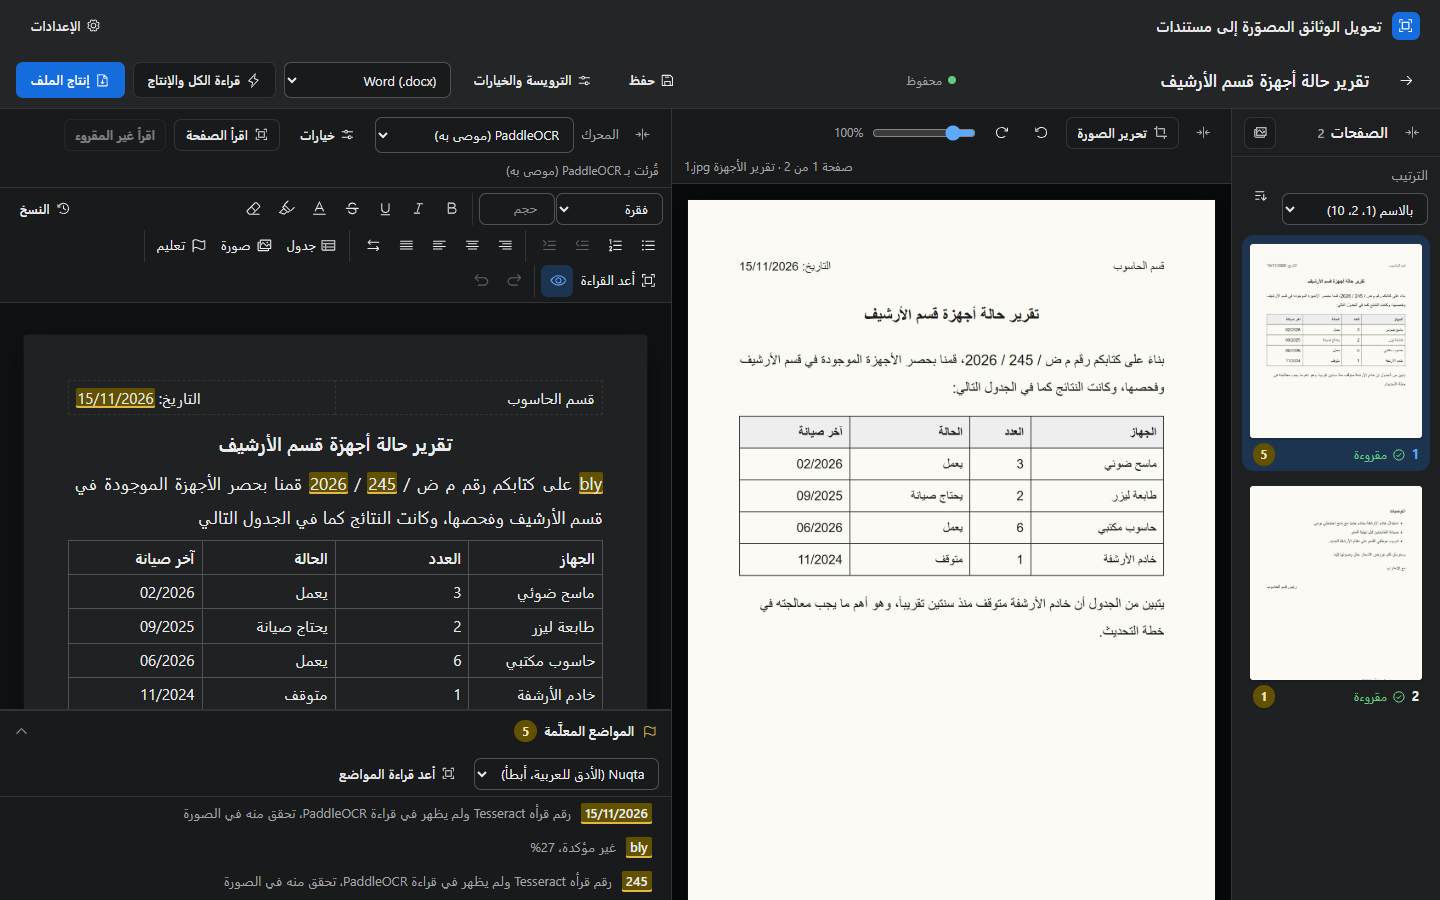
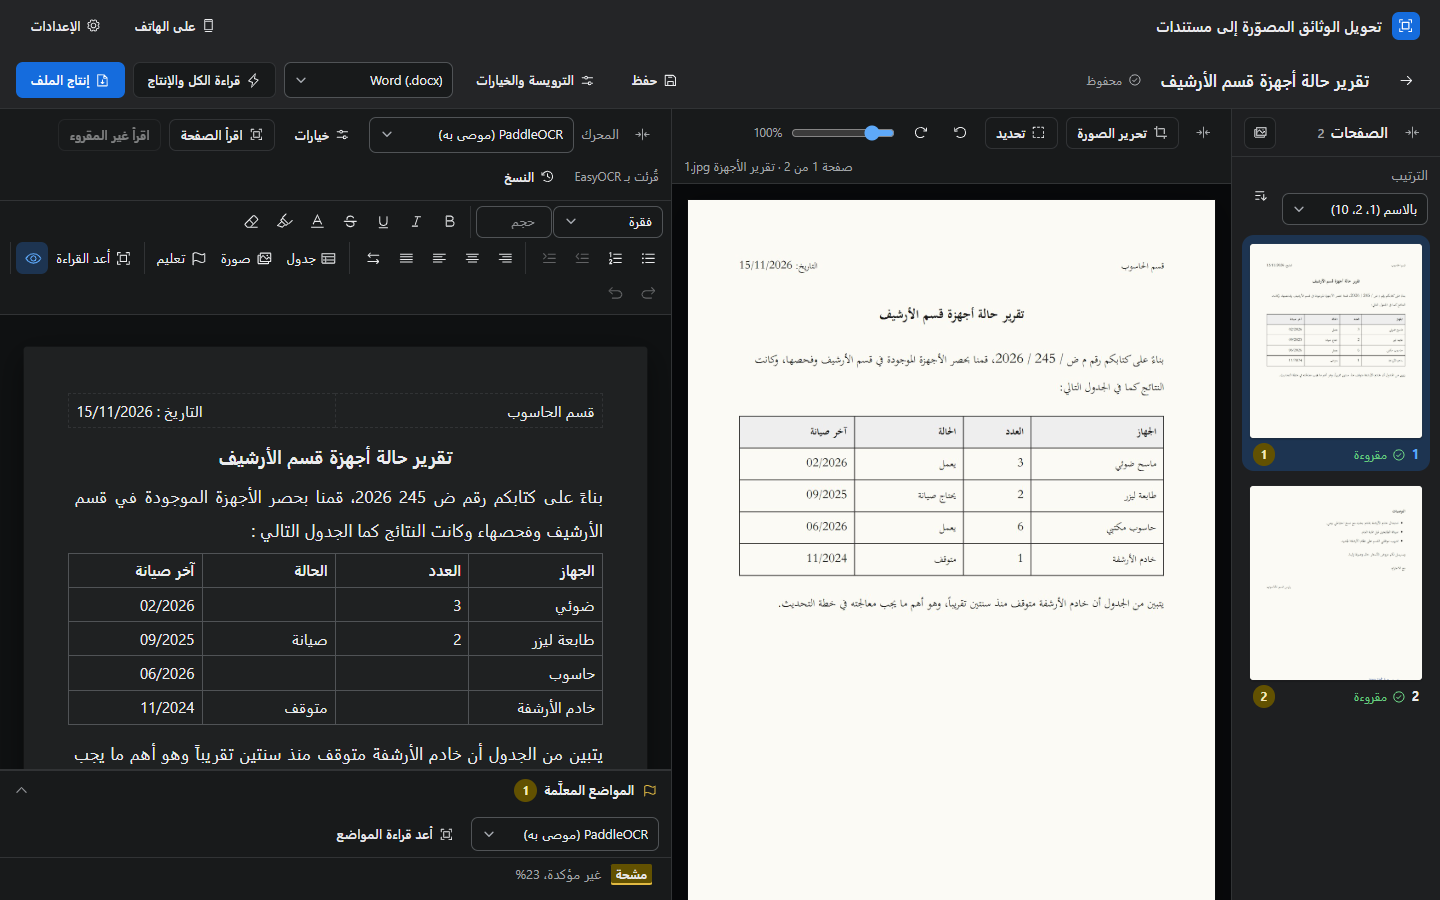
README: new screenshots (the phone toolbar, selecting part of the photo, the phone link), and their captions

diff --git a/README.md b/README.md
@@ -36,11 +36,14 @@ It runs two ways: as a Windows program (an installer, no browser or server neede
 - The **editor** works like a page in Word: bold, italic, underline, strikethrough, text and highlight colors, any text size,
   three heading levels, quotes, alignment, left-to-right paragraphs, and undo. Select any lines to make them a bulleted or
   numbered list, then indent them. Tables take their size from a grid or from typed numbers, and their rows, columns, lines and
-  cell colors can all be changed. Pictures can be cut from the page photo (a logo, a chart, a signature). The tools for the
+  cell colors can all be changed. Pictures can be cut from the page photo (a logo, a chart, a signature): press تحديد on the
+  photo, drag a box around the part, move it if needed, then copy it or put it in the text. A copied part pastes into any
+  program at the photo's full resolution. The tools for the
   selected text, table or picture appear right above it, and clicking a highlighted word opens a small panel with its note,
   that spot of the photo, and the word ready to correct.
 - The **workspace** puts pages, photo and text side by side. Drag the bars between them to resize, or fold any part into a
-  thin rail. On a phone the three parts become tabs.
+  thin rail. On a phone the three parts become tabs, the text tools fit in one row, and menus open from the bottom of the
+  screen.
 - The **output** uses the chosen header template (header, footer and page setup kept, `{{DATE}}` filled in), the document
   font and size, and real Word lists and headings. Highlighted text keeps its note, as a Word comment in `.docx` and `.odt` and
   as a numbered footnote in PDF and PNG. Formats: `.docx`, PDF, `.odt`, PNG (one image, or a `.zip` for several pages) and `.txt`.
@@ -54,23 +57,32 @@ The pages in these pictures are made-up test letters.
 
 | | |
 |---|---|
-| ![A clicked line shown on the photo](docs/screenshots/line-on-photo.png) | ![A highlighted word with a second reader's suggestion](docs/screenshots/flagged-word.png) |
-| Click a line to see it on the photo, and read it again with another reader. | A highlighted word, its spot on the photo, and what a second reader made of it. |
+| ![A clicked line shown on the photo](docs/screenshots/line-on-photo.png) | ![A highlighted word and its note](docs/screenshots/flagged-word.png) |
+| Click a line to see it on the photo, and read it again with another reader. | Click a highlighted word to see why it was marked and correct it in place. |
 | ![A table cell shown on the photo](docs/screenshots/table-cell.png) | ![Formatting tools over selected text](docs/screenshots/text-tools.png) |
 | Table cells have their own spot on the photo. | The tools for selected text appear right above it. |
 | ![The drafts list](docs/screenshots/drafts.png) | ![Template, font and output options](docs/screenshots/output.png) |
 | Drafts can be searched by name, person or page count. | The template, the document's font and size, and what goes in the file. |
 | ![The workspace in the dark theme](docs/screenshots/dark.png) | ![The text and the photo on a phone](docs/screenshots/phone.png) |
-| The dark theme. | On a phone the pages, the photo and the text become tabs. |
+| The dark theme. | On a phone the pages, the photo and the text become tabs, with the text tools in one row at the bottom. |
+| ![Part of the photo selected, with copy and insert](docs/screenshots/select-part.png) | ![The phone link, its QR code and password](docs/screenshots/phone-link.png) |
+| Select part of the photo (a note in the margin, a stamp, a signature) to copy it or put it in the text. | Scan the code or open the link on a phone, then type the password. This link and password are made up. |
 
 ## Windows program
 
 Download `DocScan-Setup-<version>.exe` from the [releases](../../releases) and run it. It installs for the current user
 (no administrator rights) with PaddleOCR and Tesseract, and asks whether to add Nuqta and EasyOCR (about 2 GB, downloaded only
-if chosen). The program opens in its own window; closing it ends it completely. Drafts are kept in `%LOCALAPPDATA%\DocScan`.
+if chosen). If they were skipped, picking either one in the reader list, or الإعدادات > القرّاء الإضافيون, downloads them
+from inside the program. The program opens in its own window; closing it ends it completely. Drafts are kept in `%LOCALAPPDATA%\DocScan`.
 PDF, ODT and TXT need Microsoft Word or LibreOffice on the computer; Word files (`.docx`) always work.
 
-At start the program checks this repository's latest release and offers to update itself. Without internet it says nothing.
+At start, and from الإعدادات > عن البرنامج, the program checks this repository's latest release and offers to update
+itself, with a list of what changed (ما الجديد؟). Without internet it says nothing at start.
+
+To use it on a phone from anywhere, press على الهاتف in the top bar. It shows a link, a QR code for it and a password. The
+phone works on the same drafts in its browser while the program stays open on the computer. The link and password are new
+each time, five wrong passwords in a minute lock sign-in for the rest of that minute, and updates, readers and the link itself
+are only controlled from the computer.
 
 To build it yourself: `desktop\build.ps1 -Version 1.0.0 -Parts` (needs Tesseract in `C:\Program Files\Tesseract-OCR`),
 then `iscc /DAppVersion=1.0.0 desktop\installer.iss` with Inno Setup 6. The GitHub workflow does both on a version tag
@@ -148,7 +160,7 @@ This repository ships only `plain.docx` (a page with the date at the top). Add y
 
 ```bash
 cd server && python -m pytest tests -q   # layout from the photo: tables, lists, handwriting marks, numbers, headings
-node --test web/js/                       # the Word file, and the editor's conversion to and from the page model
+node --test web/js/*.test.js             # the Word file, and the editor's conversion to and from the page model
 ```
 
 The text editor is Tiptap (MIT). It is bundled once into `web/vendor/tiptap.min.js` (`cd tools/editor && npm ci && npm run build`),
